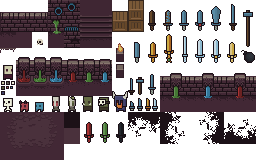
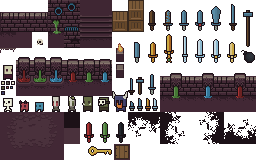
Add key and door mechanics

Changed region(s): [[0.3438, 0.875, 0.5312, 1.0]]

diff --git a/src/level.cpp b/src/level.cpp
@@ -9,6 +9,12 @@
 
 #define buf(v_) (char*)&(v_)
 
+level::level() :
+	key_sprite(texture_manager::load("res/atlas.png"), SDL_Rect { 88, 146, 24, 10 }),
+	door_sprite(texture_manager::load("res/atlas.png"), SDL_Rect { 114, 144, 16, 16 }) {
+
+}
+
 level::~level() {
 	for (const auto& layer : layers) {
 		free(layer.tiles);
@@ -43,6 +49,14 @@ void level::draw(const renderer& ren) const {
 			}
 		}
 	}
+
+	for (const auto& d : doors) {
+		ren.draw(vec2(d.x, d.y), door_sprite);
+	}
+
+	for (const auto& k : keys) {
+		ren.draw(vec2(k.x, k.y), key_sprite);
+	}
 }
 
 bool level::load(const char* filename) {
@@ -50,7 +64,7 @@ bool level::load(const char* filename) {
 	file.open(filename, std::ios_base::in | std::ios_base::binary);
 
 	if (!file.good()) {
-		fprintf(stderr, "Failed to load map: %s: Couldn't open file\n", filename);
+		fprintf(stderr, "Failed to load map: %s: Couldn't open file.\n", filename);
 		return false;
 	}
 
@@ -222,6 +236,10 @@ bool level::load(const char* filename) {
 					a.position = vec2(rect.x, rect.y);
 
 					agents.push_back(a);
+				} else if (strcmp("doors", current.name) == 0) {
+					doors.push_back(rect);
+				} else if (strcmp("keys", current.name) == 0) {
+					keys.push_back(rect);
 				}
 			}
 			break;
@@ -357,5 +375,4 @@ void level::resolve_collisions_with_body(const SDL_Rect& body_collider, vec2& bo
 			} 
 		}
 	}
-
 }

diff --git a/src/player.cpp b/src/player.cpp
@@ -1,4 +1,5 @@
 #include "player.hpp"
+#include "level.hpp"
 
 player::player() :
 	spr(texture_manager::load("res/atlas.png"), SDL_Rect { 3, 65, 10, 15 }),
@@ -33,7 +34,7 @@ void player::update_events(const SDL_Event& e) {
 	}
 }
 
-void player::tick(float ts) {
+void player::tick(float ts, level& l) {
 	if (left_pressed) {
 		position.x -= speed * ts;
 	}
@@ -46,8 +47,43 @@ void player::tick(float ts) {
 	if (down_pressed) {
 		position.y += speed * ts;
 	}
+
+	l.resolve_collisions_with_body(collider, position);
+
+	SDL_Rect player_rect = {
+		(int)position.x + collider.x,
+		(int)position.y + collider.y,
+		collider.w, collider.h
+	};
+
+	/* Check for colllisions with the key */
+	for (const auto& k : l.keys) {
+		if (rect_overlap(player_rect, k)) {
+			has_key = true;
+
+			/* Clear the keys vector to create the illusion of
+			 * it being destroyed.
+			 *
+			 * Only one key is expected, so this is fine.*/
+			l.keys.clear();
+		}
+	}
+
+	/* Check for collisions with the door. */
+	if (has_key) {
+		for (const auto& d : l.doors) {
+			if (rect_overlap(player_rect, d)) {
+				/* TODO: switch to win screen */
+				exit(0);
+			}
+		}
+	}
 }
 
-void player::draw(const renderer& ren) {
+void player::draw(const renderer& ren, const level& l) {
 	ren.draw(position, spr);
+
+	if (has_key) {
+		ren.draw(vec2(0, 0), l.key_sprite);
+	}
 }

diff --git a/src/common.hpp b/src/common.hpp
@@ -6,6 +6,7 @@
 
 #include <SDL2/SDL.h>
 
+/* A basic 2D vector class. */
 struct vec2 {
 	float x, y;
 
@@ -30,7 +31,7 @@ struct vec2 {
 	}
 
 	static float angle(const vec2& a, const vec2& b) {
-		return 1.0 - (cosf(a.dot(b) / (a.magnitude() * b.magnitude())));
+		return 1.0 - (cos(a.dot(b) / (a.magnitude() * b.magnitude())));
 	}
 };
 
@@ -38,5 +39,9 @@ struct vec2 {
  *
  * If the rectangles are overlapping, the normal
  * of the collision is placed in `normal', useful
- * for collision resolution. */
+ * for collision resolution. There is also a version
+ * that simply checks for an overlap, without outputting
+ * the normal; This is useful when the collision is not
+ * going to be resolved. */
 bool rect_overlap(const SDL_Rect& a, const SDL_Rect& b, vec2& normal);
+bool rect_overlap(const SDL_Rect& a, const SDL_Rect& b);

diff --git a/src/agent.hpp b/src/agent.hpp
@@ -41,12 +41,6 @@ struct agent {
 
 	void switch_state(const state& newstate);
 
-	/* Check if the player is inside the cone of vision.
-	 *
-	 * The way this is done is by checking if the player is inside the
-	 * agent's range, and checking if it is facing towards the player.
-	 *
-	 * Since the range check is essentially a circle check, this produces
-	 * a cone shaped-check when combined with the face check. */
+	/* Check if the player is inside the cone of vision. */
 	bool cone_of_vision(const player& player, const vec2& direction) const;
 };

diff --git a/src/world.cpp b/src/world.cpp
@@ -9,8 +9,7 @@ void world::update_events(const SDL_Event& e) {
 }
 
 void world::tick(float ts) {
-	p.tick(ts);
-	l.resolve_collisions_with_body(p.collider, p.position);
+	p.tick(ts, l);
 
 	for (auto& a : l.agents) {
 		a.tick(ts, p, l);
@@ -20,7 +19,7 @@ void world::tick(float ts) {
 void world::draw(const renderer& ren) {
 	l.draw(ren);
 
-	p.draw(ren);
+	p.draw(ren, l);
 
 	for (auto& a : l.agents) {
 		a.draw(ren);

diff --git a/src/level.hpp b/src/level.hpp
@@ -43,14 +43,16 @@ private:
 	node* nodes = nullptr;
 	int map_width, map_height;
 public:
+	const sprite door_sprite;
+	const sprite key_sprite;
+
 	std::vector<SDL_Rect> collisions;
 	std::vector<agent> agents;
 
-	/*sprite key_sprite;*/
+	std::vector<SDL_Rect> doors;
+	std::vector<SDL_Rect> keys;
 
-	vec2 key_pos;
-	vec2 door_pos;
-
+	level();
 	~level();
 
 	void draw(const renderer& ren) const;

diff --git a/src/player.hpp b/src/player.hpp
@@ -4,6 +4,8 @@
 
 #include "renderer.hpp"
 
+class level;
+
 /* Manages the player and its associated state. */
 class player {
 private:
@@ -25,6 +27,6 @@ public:
 	player();
 
 	void update_events(const SDL_Event& e);
-	void tick(float ts);
-	void draw(const renderer& ren);
+	void tick(float ts, level& l);
+	void draw(const renderer& ren, const level& l);
 };

diff --git a/src/world.hpp b/src/world.hpp
@@ -5,10 +5,19 @@
 #include "renderer.hpp"
 #include "agent.hpp"
 
+/* A blackboard event */
+struct event {
+	union {
+		vec2 player_spotted_event;
+	} as;
+};
+
 /* Manages the player, level, and AI agents. */
 struct world {
 	level l;
 	player p;
+
+	std::vector<event> blackboard;
 
 	world(const char* level_path);
 

diff --git a/src/common.cpp b/src/common.cpp
@@ -38,3 +38,14 @@ bool rect_overlap(const SDL_Rect& a, const SDL_Rect& b, vec2& normal) {
 
 	return true;
 }
+
+bool rect_overlap(const SDL_Rect& a, const SDL_Rect& b) {
+	if (!(
+		a.x + a.w > b.x &&
+		a.y + a.h > b.y &&
+		a.x < b.x + b.w &&
+		a.y < b.y + b.h)) {
+		return false;
+	}
+	return true;
+}
